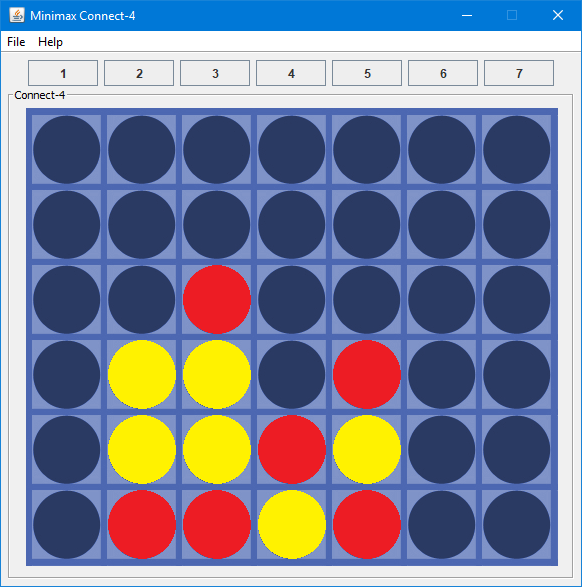
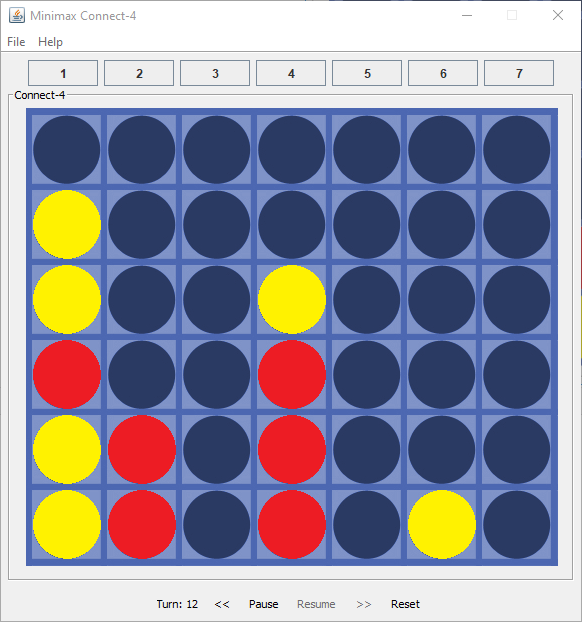
Update screenshots
Show/hide undo, redo and reset buttons in Nimbus GUI style.

diff --git a/src/gui/GUI.java b/src/gui/GUI.java
@@ -399,6 +399,7 @@ public class GUI {
 			
 			redoItem.setEnabled(true);
 			redoButton.setEnabled(true);
+			if (GameParameters.guiStyle == GuiStyle.NIMBUS_STYLE) redoButton.setVisible(true);
 
 			System.out.println("Turn: " + board.getTurn());
 			Board.printBoard(board.getGameBoard());
@@ -477,11 +478,13 @@ public class GUI {
 			if (redoBoards.isEmpty()) {
 				redoItem.setEnabled(false);
 				redoButton.setEnabled(false);
+				if (GameParameters.guiStyle == GuiStyle.NIMBUS_STYLE) redoButton.setVisible(false);
 			}
 
 			undoItem.setEnabled(true);
 			undoButton.setEnabled(true);
-			
+			if (GameParameters.guiStyle == GuiStyle.NIMBUS_STYLE) undoButton.setVisible(true);
+
 			System.out.println("Turn: " + board.getTurn());
 			Board.printBoard(board.getGameBoard());
 		}
@@ -559,7 +562,9 @@ public class GUI {
 		JButton resetButton = new JButton("Reset");
 
 		undoButton.setEnabled(false);
+		if (GameParameters.guiStyle == GuiStyle.NIMBUS_STYLE) undoButton.setVisible(false);
 		redoButton.setEnabled(false);
+		if (GameParameters.guiStyle == GuiStyle.NIMBUS_STYLE) redoButton.setVisible(false);
 
 		undoButton.addActionListener(e -> {
 			if (!pause) {
@@ -573,10 +578,13 @@ public class GUI {
 				frameMainWindow.removeKeyListener(frameMainWindow.getKeyListeners()[0]);
 				pause = true;
 				undoButton.setEnabled(false);
+				if (GameParameters.guiStyle == GuiStyle.NIMBUS_STYLE) undoButton.setVisible(false);
 				pauseButton.setEnabled(false);
 				redoButton.setEnabled(false);
+				if (GameParameters.guiStyle == GuiStyle.NIMBUS_STYLE) redoButton.setVisible(false);
 				startButton.setEnabled(true);
 				resetButton.setEnabled(false);
+				if (GameParameters.guiStyle == GuiStyle.NIMBUS_STYLE) resetButton.setVisible(false);
 			}
 		});
 
@@ -595,12 +603,24 @@ public class GUI {
 				}
 
 				pause = false;
-				undoButton.setEnabled(true);
+				if (undoBoards.isEmpty()) {
+					undoButton.setEnabled(false);
+					if (GameParameters.guiStyle == GuiStyle.NIMBUS_STYLE) undoButton.setVisible(false);
+				} else {
+					undoButton.setEnabled(true);
+					if (GameParameters.guiStyle == GuiStyle.NIMBUS_STYLE) undoButton.setVisible(true);
+				}
 				pauseButton.setEnabled(true);
-				if (!redoBoards.isEmpty())
+				if (redoBoards.isEmpty()) {
+					redoButton.setEnabled(false);
+					if (GameParameters.guiStyle == GuiStyle.NIMBUS_STYLE) redoButton.setVisible(false);
+				} else {
 					redoButton.setEnabled(true);
+					if (GameParameters.guiStyle == GuiStyle.NIMBUS_STYLE) redoButton.setVisible(true);
+				}
 				startButton.setEnabled(false);
 				resetButton.setEnabled(true);
+				if (GameParameters.guiStyle == GuiStyle.NIMBUS_STYLE) resetButton.setVisible(true);
 			}
 		});
 
@@ -612,8 +632,10 @@ public class GUI {
 				}
 				pause = false;
 				undoButton.setEnabled(false);
+				if (GameParameters.guiStyle == GuiStyle.NIMBUS_STYLE) undoButton.setVisible(false);
 				pauseButton.setEnabled(true);
 				redoButton.setEnabled(false);
+				if (GameParameters.guiStyle == GuiStyle.NIMBUS_STYLE) redoButton.setVisible(false);
 				startButton.setEnabled(false);
 				createNewGame();
 			}
@@ -795,12 +817,14 @@ public class GUI {
 			gameOver();
 		} else {
 			undoButton.setEnabled(true);
+			if (GameParameters.guiStyle == GuiStyle.NIMBUS_STYLE) undoButton.setVisible(true);
 			undoItem.setEnabled(true);
 		}
 
 		redoBoards.clear();
 		redoCheckerLabels.clear();
 		redoButton.setEnabled(false);
+		if (GameParameters.guiStyle == GuiStyle.NIMBUS_STYLE) redoButton.setVisible(false);
 		redoItem.setEnabled(false);
 
 		return isGameOver;

diff --git a/README.md b/README.md
@@ -24,4 +24,4 @@ HOT TO RUN IN ECLIPSE:
 
 ### Screenshot
 
-![screenshot](/screenshots/screenshot_ubuntu.png)
+![screenshot](/screenshots/screenshot_windows1.png)
